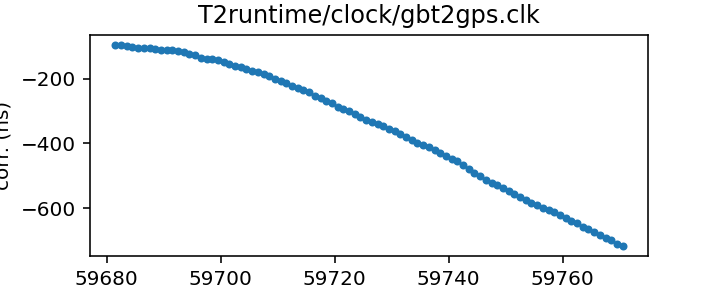
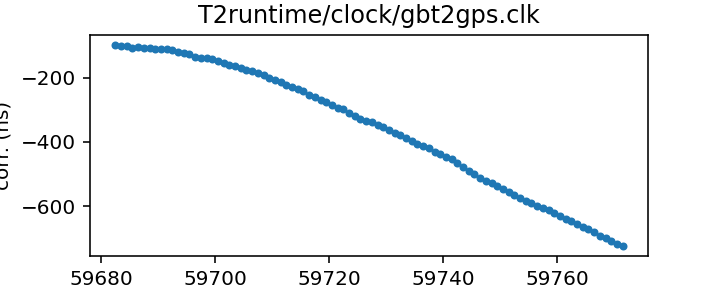
Routine gh-pages update from Github action Tue Jul 12 20:37:03 UTC 2022

diff --git a/status.md b/status.md
@@ -13,17 +13,17 @@ name of each clock file links to a page with more details.
 
 | Name | File | Corrections start | Corrections end | Last check date | Last check result 
 |:--- |:--- | --- | --- | --- |:--- 
-| [GPS to UTC](T2runtime/clock/gps2utc.clk.html) | `T2runtime/clock/gps2utc.clk` | 1993-01-01 MJD 48988.0 | 2022-06-29 MJD 59759.0 | 2022-07-11 | Updated 
-| [GPS to UTC (Combined Clock)](T2runtime/clock/gps2utc_cc.clk.html) | `T2runtime/clock/gps2utc_cc.clk` | 1993-01-01 MJD 48988.0 | 2022-06-29 MJD 59759.0 | 2022-07-11 | Updated 
-| [GPS to UTC (Corrected)](T2runtime/clock/gps2utc_c0p.clk.html) | `T2runtime/clock/gps2utc_c0p.clk` | 2010-12-29 MJD 55559.0 | 2022-06-29 MJD 59759.0 | 2022-07-11 | Updated 
-| [GBT](tempo/clock/time_gbt.dat.html) | `tempo/clock/time_gbt.dat` | 2000-12-31 MJD 51909.5 | 2022-07-10 MJD 59770.5 | 2022-07-11 | Updated 
-| [GBT (TEMPO2 converted from TEMPO)](T2runtime/clock/gbt2gps.clk.html) | `T2runtime/clock/gbt2gps.clk` | 2000-12-31 MJD 51909.5 | 2022-07-10 MJD 59770.5 | 2022-07-11 | Updated 
+| [GPS to UTC](T2runtime/clock/gps2utc.clk.html) | `T2runtime/clock/gps2utc.clk` | 1993-01-01 MJD 48988.0 | 2022-06-29 MJD 59759.0 | 2022-07-12 | Unchanged 
+| [GPS to UTC (Combined Clock)](T2runtime/clock/gps2utc_cc.clk.html) | `T2runtime/clock/gps2utc_cc.clk` | 1993-01-01 MJD 48988.0 | 2022-06-29 MJD 59759.0 | 2022-07-12 | Unchanged 
+| [GPS to UTC (Corrected)](T2runtime/clock/gps2utc_c0p.clk.html) | `T2runtime/clock/gps2utc_c0p.clk` | 2010-12-29 MJD 55559.0 | 2022-06-29 MJD 59759.0 | 2022-07-12 | Unchanged 
+| [GBT](tempo/clock/time_gbt.dat.html) | `tempo/clock/time_gbt.dat` | 2000-12-31 MJD 51909.5 | 2022-07-11 MJD 59771.5 | 2022-07-12 | Updated 
+| [GBT (TEMPO2 converted from TEMPO)](T2runtime/clock/gbt2gps.clk.html) | `T2runtime/clock/gbt2gps.clk` | 2000-12-31 MJD 51909.5 | 2022-07-11 MJD 59771.5 | 2022-07-12 | Updated 
 | [Jodrell Bank](T2runtime/clock/jb2gps.clk.html) | `T2runtime/clock/jb2gps.clk` | 2006-10-13 MJD 54021.4 | 2021-11-03 MJD 59521.0 | 2022-07-06 | Unchanged 
 | [Jodrell Bank Roach](T2runtime/clock/jbroach2jb.clk.html) | `T2runtime/clock/jbroach2jb.clk` | 2006-10-13 MJD 54021.4 | 2018-03-20 MJD 58197.6 | 2022-07-06 | Unchanged 
 | [Jodrell Bank DFB](T2runtime/clock/jbdfb2jb.clk.html) | `T2runtime/clock/jbdfb2jb.clk` | 2006-10-13 MJD 54021.4 | 2017-05-11 MJD 57884.0 | 2022-07-06 | Unchanged 
 | [Meerkat (observatory)](T2runtime/clock/mk2utc_observatory.clk.html) | `T2runtime/clock/mk2utc_observatory.clk` | 2019-01-01 MJD 58484.0 | 2022-06-29 MJD 59760.0 | 2022-07-11 | Updated 
-| [Leap seconds](tempo/clock/leap.sec.html) | `tempo/clock/leap.sec` | 1972-07-01 MJD 41499.0 | 2017-01-01 MJD 57754.0 | 2022-07-11 | Unchanged 
-| [UT1 table](tempo/clock/ut1.dat.html) | `tempo/clock/ut1.dat` | 1973-01-02 MJD 41684.0 | 2023-07-15 MJD 60140.0 | 2022-07-11 | Unchanged 
+| [Leap seconds](tempo/clock/leap.sec.html) | `tempo/clock/leap.sec` | 1972-07-01 MJD 41499.0 | 2017-01-01 MJD 57754.0 | 2022-07-12 | Unchanged 
+| [UT1 table](tempo/clock/ut1.dat.html) | `tempo/clock/ut1.dat` | 1973-01-02 MJD 41684.0 | 2023-07-15 MJD 60140.0 | 2022-07-12 | Unchanged 
 
 
 

diff --git a/T2runtime/clock/gbt2gps.clk.md b/T2runtime/clock/gbt2gps.clk.md
@@ -23,14 +23,13 @@ If questions arise about the conversion, contact Anne Archibald
 | Format | tempo2 |
 | Bogus last correction | False |
 | Clock file start | 2000-12-31 MJD 51909.5 |
-| Clock file end | 2022-07-10 MJD 59770.5 |
+| Clock file end | 2022-07-11 MJD 59771.5 |
 | Update interval (days) | 1 |
-| Last update attempt | 2022-07-11 |
+| Last update attempt | 2022-07-12 |
 | Last update result | Updated |
 
 Log entries from the last few update attempts:
 ```
-2022-07-04 14:57:57.807 - Validation failed: New version of T2runtime/clock/gbt2gps.clk clock corrections differ from old version where they overlap in 1 places
 2022-07-04 14:58:15.056 - Validation failed: New version of T2runtime/clock/gbt2gps.clk clock corrections differ from old version where they overlap in 1 places
 2022-07-04 14:58:15.056 - Updated overriding validation failure
 2022-07-05 20:34:42.133 - Updated
@@ -40,12 +39,13 @@ Log entries from the last few update attempts:
 2022-07-09 20:31:55.637 - Updated
 2022-07-10 20:32:34.685 - Updated
 2022-07-11 20:34:33.319 - Updated
+2022-07-12 20:36:39.800 - Updated
 ```
 [Full log](https://raw.githubusercontent.com/ipta/pulsar-clock-corrections/main/log/T2runtime/clock/gbt2gps.clk.log)
 
 Leading comments from clock file:
 
-    # This file was automatically converted from tempo/clock/time_gbt.dat on 2022-07-11 20:34:33.245
+    # This file was automatically converted from tempo/clock/time_gbt.dat on 2022-07-12 20:36:39.728
 
 
 

diff --git a/tempo/clock/time_gbt.dat.md b/tempo/clock/time_gbt.dat.md
@@ -18,14 +18,13 @@ If questions arise, contact Ryan S. Lynch <rlynch@nrao.edu>.
 | Format | tempo |
 | Bogus last correction | False |
 | Clock file start | 2000-12-31 MJD 51909.5 |
-| Clock file end | 2022-07-10 MJD 59770.5 |
+| Clock file end | 2022-07-11 MJD 59771.5 |
 | Update interval (days) | 1 |
-| Last update attempt | 2022-07-11 |
+| Last update attempt | 2022-07-12 |
 | Last update result | Updated |
 
 Log entries from the last few update attempts:
 ```
-2022-07-03 20:31:45.869 - Validation failed: New version of tempo/clock/time_gbt.dat clock corrections differ from old version where they overlap in 1 places
 2022-07-04 14:49:32.673 - Validation failed: New version of tempo/clock/time_gbt.dat clock corrections differ from old version where they overlap in 1 places
 2022-07-04 14:49:32.674 - Updated overriding validation failure
 2022-07-05 20:34:42.061 - Updated
@@ -35,6 +34,7 @@ Log entries from the last few update attempts:
 2022-07-09 20:31:55.563 - Updated
 2022-07-10 20:32:34.614 - Updated
 2022-07-11 20:34:32.996 - Updated
+2022-07-12 20:36:39.726 - Updated
 ```
 [Full log](https://raw.githubusercontent.com/ipta/pulsar-clock-corrections/main/log/tempo/clock/time_gbt.dat.log)
 

diff --git a/T2runtime/clock/gps2utc_c0p.clk.md b/T2runtime/clock/gps2utc_c0p.clk.md
@@ -30,12 +30,11 @@ about the BIPM's published corrections, contact <tai@bipm.org>.
 | Clock file start | 2010-12-29 MJD 55559.0 |
 | Clock file end | 2022-06-29 MJD 59759.0 |
 | Update interval (days) | 1 |
-| Last update attempt | 2022-07-11 |
-| Last update result | Updated |
+| Last update attempt | 2022-07-12 |
+| Last update result | Unchanged |
 
 Log entries from the last few update attempts:
 ```
-2022-07-02 20:32:16.854 - Unchanged
 2022-07-03 20:31:45.453 - Unchanged
 2022-07-04 20:32:40.873 - Unchanged
 2022-07-05 20:34:41.573 - Unchanged
@@ -45,6 +44,7 @@ Log entries from the last few update attempts:
 2022-07-09 20:31:55.140 - Unchanged
 2022-07-10 20:32:34.196 - Unchanged
 2022-07-11 20:34:32.696 - Updated
+2022-07-12 20:36:39.402 - Unchanged
 ```
 [Full log](https://raw.githubusercontent.com/ipta/pulsar-clock-corrections/main/log/T2runtime/clock/gps2utc_c0p.clk.log)
 

diff --git a/T2runtime/clock/gps2utc_cc.clk.md b/T2runtime/clock/gps2utc_cc.clk.md
@@ -29,12 +29,11 @@ about the BIPM's published corrections, contact <tai@bipm.org>.
 | Clock file start | 1993-01-01 MJD 48988.0 |
 | Clock file end | 2022-06-29 MJD 59759.0 |
 | Update interval (days) | 1 |
-| Last update attempt | 2022-07-11 |
-| Last update result | Updated |
+| Last update attempt | 2022-07-12 |
+| Last update result | Unchanged |
 
 Log entries from the last few update attempts:
 ```
-2022-07-02 20:32:16.844 - Unchanged
 2022-07-03 20:31:45.442 - Unchanged
 2022-07-04 20:32:40.862 - Unchanged
 2022-07-05 20:34:41.563 - Unchanged
@@ -44,6 +43,7 @@ Log entries from the last few update attempts:
 2022-07-09 20:31:55.128 - Unchanged
 2022-07-10 20:32:34.185 - Unchanged
 2022-07-11 20:34:32.655 - Updated
+2022-07-12 20:36:39.391 - Unchanged
 ```
 [Full log](https://raw.githubusercontent.com/ipta/pulsar-clock-corrections/main/log/T2runtime/clock/gps2utc_cc.clk.log)
 

diff --git a/T2runtime/clock/gps2utc.clk.md b/T2runtime/clock/gps2utc.clk.md
@@ -32,12 +32,11 @@ about the BIPM's published corrections, contact <tai@bipm.org>.
 | Clock file start | 1993-01-01 MJD 48988.0 |
 | Clock file end | 2022-06-29 MJD 59759.0 |
 | Update interval (days) | 1 |
-| Last update attempt | 2022-07-11 |
-| Last update result | Updated |
+| Last update attempt | 2022-07-12 |
+| Last update result | Unchanged |
 
 Log entries from the last few update attempts:
 ```
-2022-07-02 20:32:16.812 - Unchanged
 2022-07-03 20:31:45.409 - Unchanged
 2022-07-04 20:32:40.830 - Unchanged
 2022-07-05 20:34:41.530 - Unchanged
@@ -47,6 +46,7 @@ Log entries from the last few update attempts:
 2022-07-09 20:31:55.094 - Unchanged
 2022-07-10 20:32:34.152 - Unchanged
 2022-07-11 20:34:32.553 - Updated
+2022-07-12 20:36:39.359 - Unchanged
 ```
 [Full log](https://raw.githubusercontent.com/ipta/pulsar-clock-corrections/main/log/T2runtime/clock/gps2utc.clk.log)
 

diff --git a/tempo/clock/leap.sec.md b/tempo/clock/leap.sec.md
@@ -21,12 +21,11 @@ If there are any questions, contact Anne Archibald
 | File start | 1972-07-01 MJD 41499.0 |
 | File end | 2017-01-01 MJD 57754.0 |
 | Update interval (days) | 0 |
-| Last update attempt | 2022-07-11 |
+| Last update attempt | 2022-07-12 |
 | Last update result | Unchanged |
 
 Log entries from the last few update attempts:
 ```
-2022-07-04 14:56:57.989 - Unchanged
 2022-07-04 14:58:29.785 - Unchanged
 2022-07-04 20:32:40.904 - Unchanged
 2022-07-05 20:34:42.163 - Unchanged
@@ -36,5 +35,6 @@ Log entries from the last few update attempts:
 2022-07-09 20:31:55.671 - Unchanged
 2022-07-10 20:32:34.718 - Unchanged
 2022-07-11 20:34:36.817 - Unchanged
+2022-07-12 20:36:39.843 - Unchanged
 ```
 [Full log](https://raw.githubusercontent.com/ipta/pulsar-clock-corrections/main/log/tempo/clock/leap.sec.log)

diff --git a/tempo/clock/ut1.dat.md b/tempo/clock/ut1.dat.md
@@ -30,12 +30,11 @@ If there are any questions, contact Anne Archibald
 | File start | 1973-01-02 MJD 41684.0 |
 | File end | 2023-07-15 MJD 60140.0 |
 | Update interval (days) | 0 |
-| Last update attempt | 2022-07-11 |
+| Last update attempt | 2022-07-12 |
 | Last update result | Unchanged |
 
 Log entries from the last few update attempts:
 ```
-2022-07-04 14:56:58.554 - Unchanged
 2022-07-04 14:58:30.386 - Unchanged
 2022-07-04 20:32:52.596 - Updated
 2022-07-05 20:34:50.275 - Unchanged
@@ -45,5 +44,6 @@ Log entries from the last few update attempts:
 2022-07-09 20:32:03.620 - Unchanged
 2022-07-10 20:32:42.361 - Unchanged
 2022-07-11 20:34:44.513 - Unchanged
+2022-07-12 20:36:47.105 - Unchanged
 ```
 [Full log](https://raw.githubusercontent.com/ipta/pulsar-clock-corrections/main/log/tempo/clock/ut1.dat.log)
